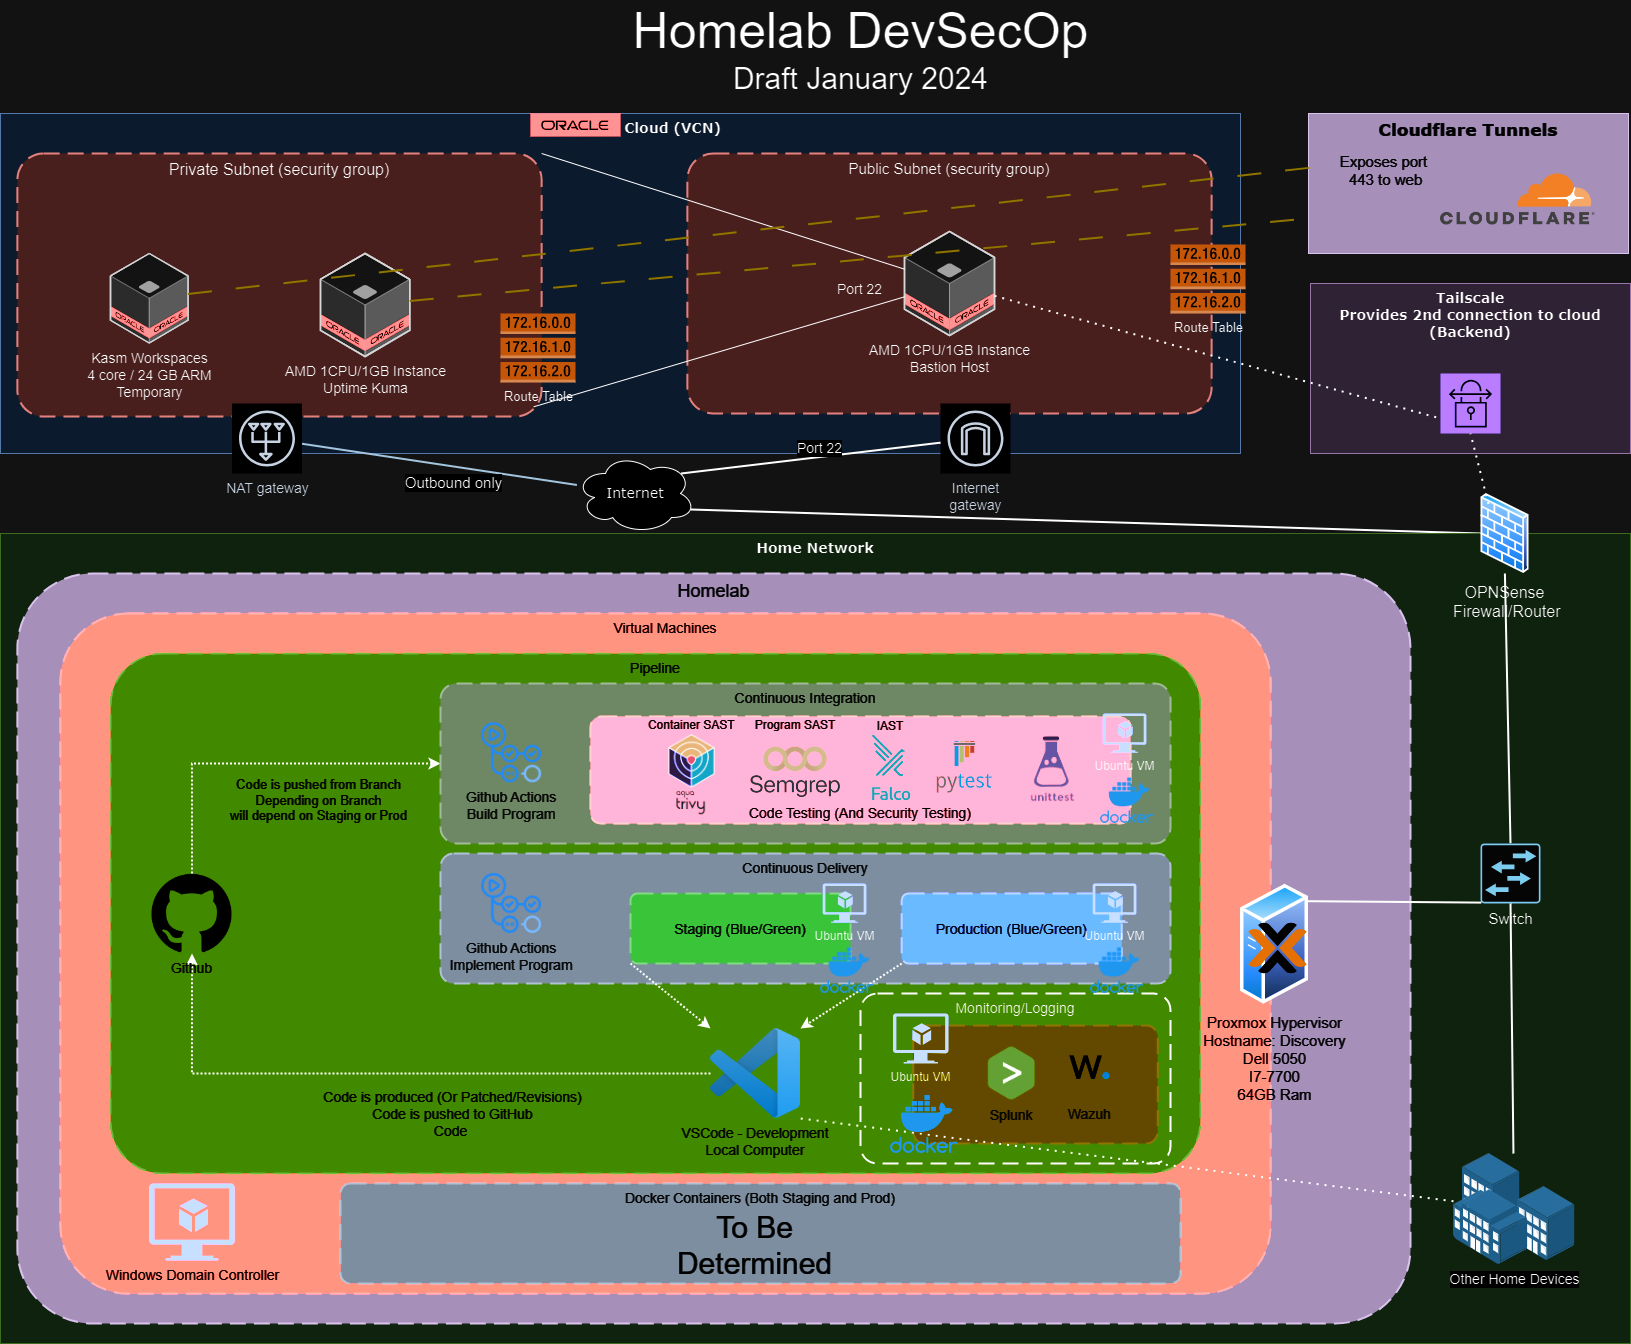
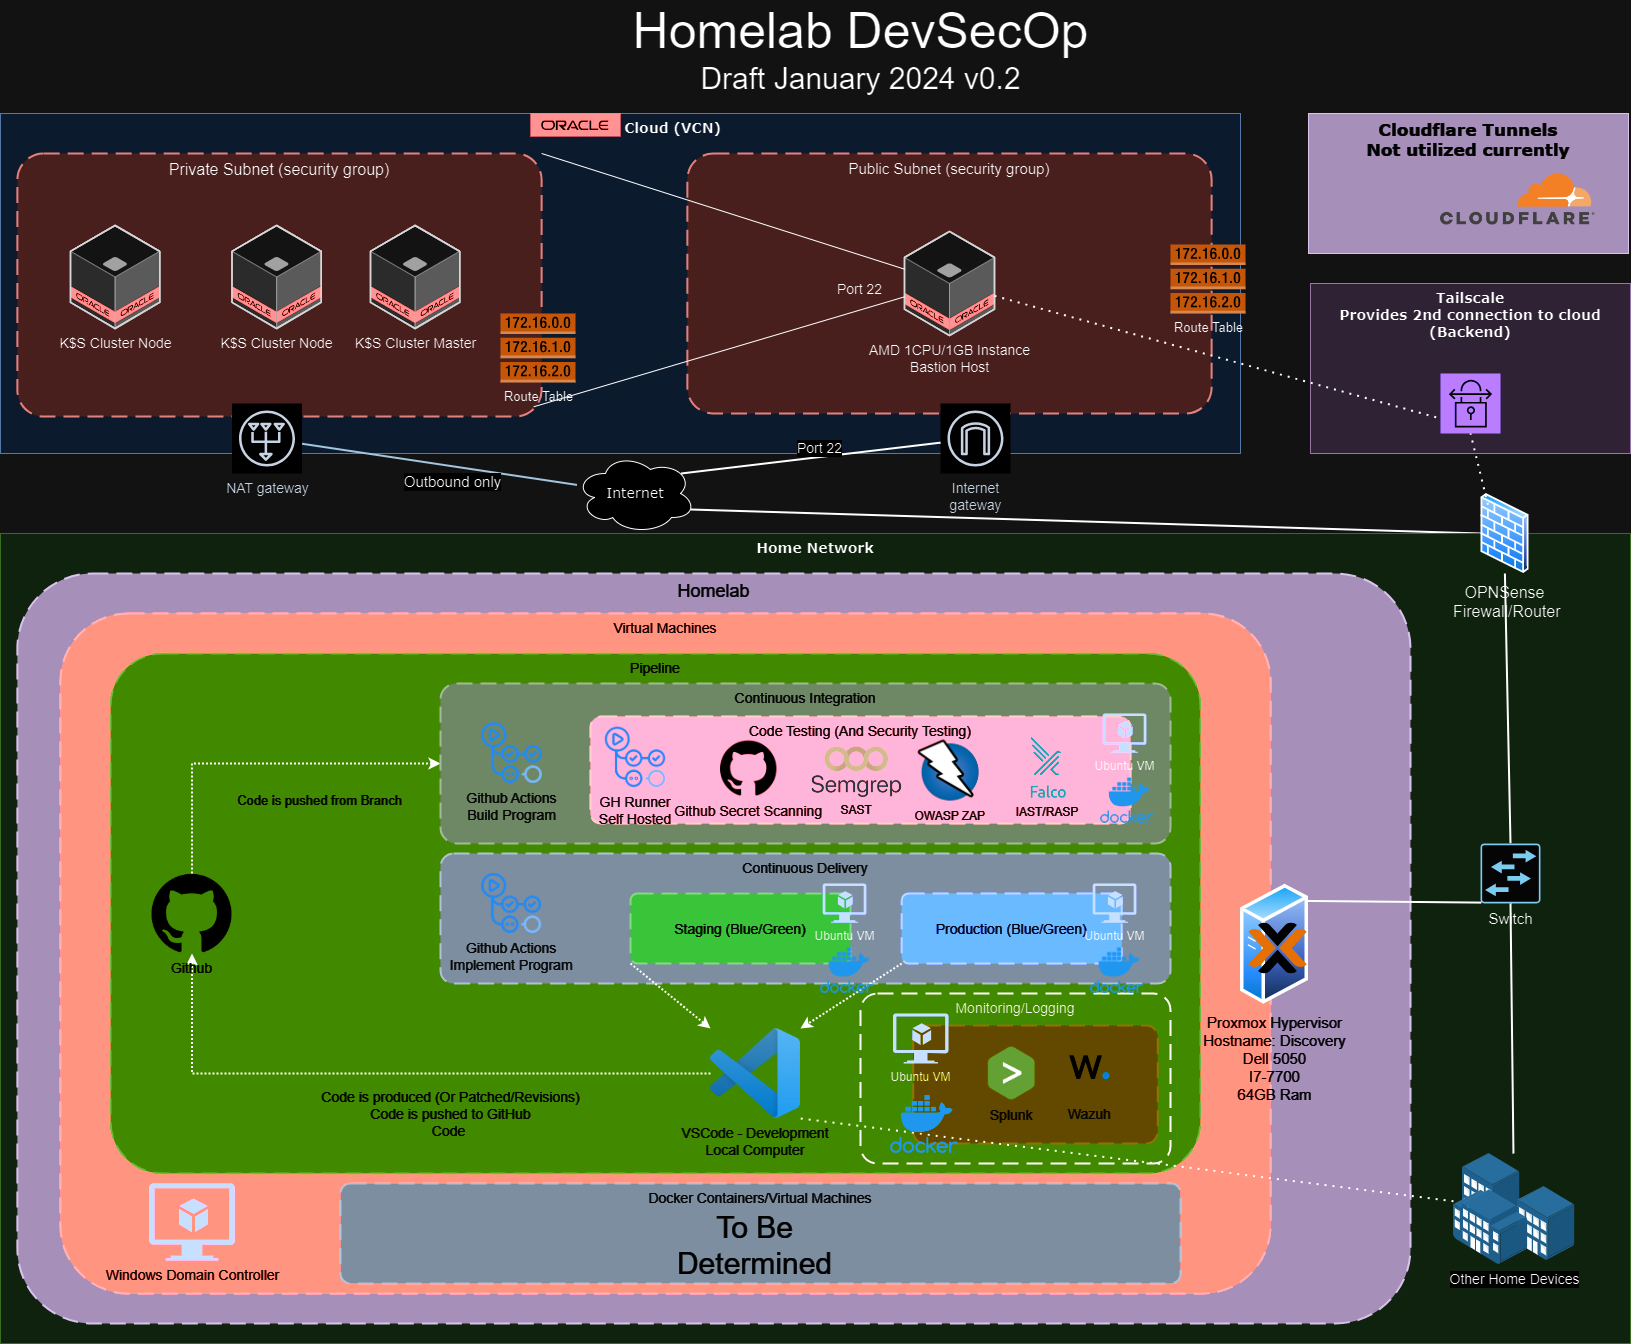
Updating and removing some tools

diff --git a/README.md b/README.md
@@ -30,16 +30,15 @@ For my HomeLab I am using:
 |Hypervisor			| Proxmox        	|https://www.proxmox.com/           |
 |Containers			| Docker				|https://www.docker.com	|
 |Security Platform  	| Wazuh			| https://wazuh.com/	|
-| Git repository | GitHub | https://www.github.com |
+| SCM/ | GitHub | https://www.github.com |
 | Pipeline/automation	| Github Actions	| https://docs.github.com/en/actions|
 |SIEM/Logging	| Splunk		| https://www.splunk.com	|
 | SOAR/Incident Response	| The Hive		| https://thehive-project.com	|
 | Malware Information Sharing/OSINT	| MISP			| https://www.misp-project.org/ 
 | Vulnerability Scanning | Nessus Essentials |https://www.tenable.com/products/nessus/nessus-essentials |
-| SAST - Containers		| Aqua Trivy	|https://trivy.dev/ |
-| SAST - Programs	| Semgrep	|	https://www.semgrep.dev |
+| SAST 	| Semgrep	|	https://www.semgrep.dev |
+| DAST	| OWASP ZAP	| https://www.zaproxy.org/ |
 | IAST/Runtime | Falco	| https://falco.org/ |
-| Unit Test, Integration Test, and Functional Test | Pytest and Unitest |  Varies |
 
   - More TBD
 
